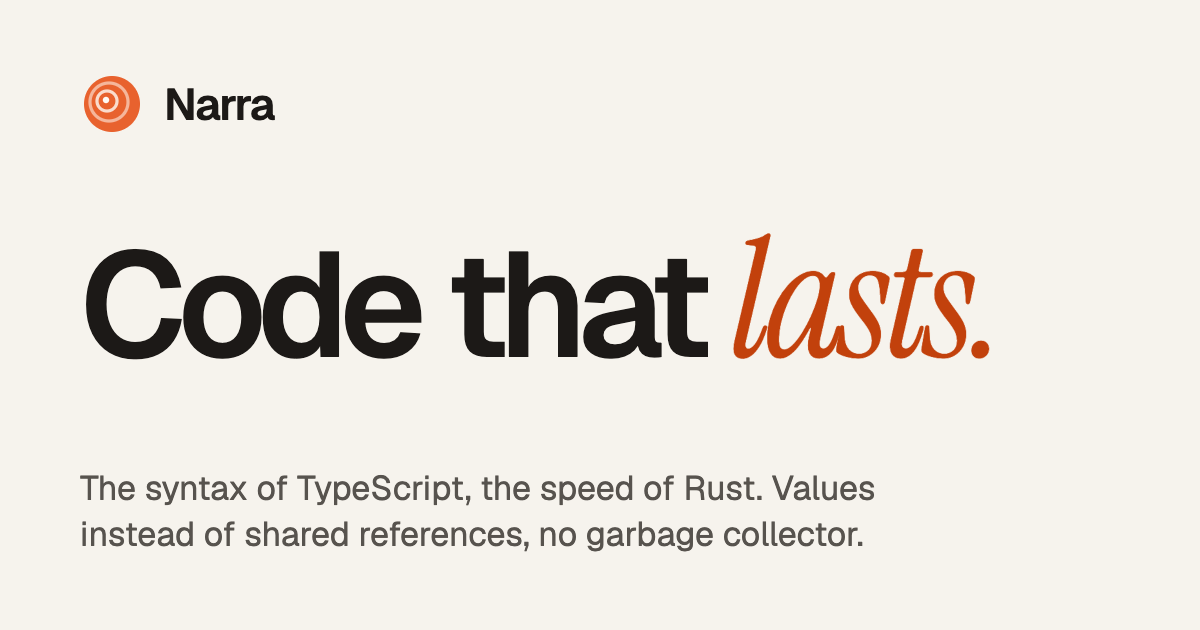
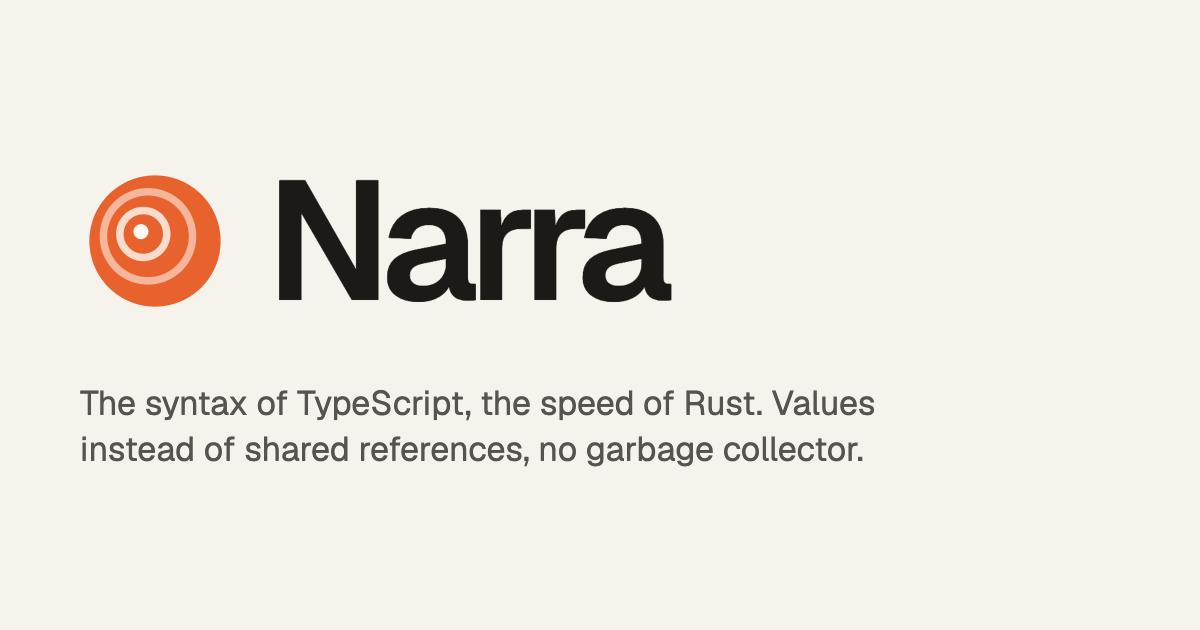
website: drop the "Code that lasts." heading
The home page heading and the link preview image led with a phrase that
said nothing about the language. The heading is now the name, Narra, and
the paragraph under it carries the pitch. The preview image shows the
logo, the name and the same line. The heading's letter-spacing is
loosened so the "rr" no longer touch.

diff --git a/website/scripts/og-image.html b/website/scripts/og-image.html
@@ -13,12 +13,6 @@
         src: url('../node_modules/@fontsource-variable/geist/files/geist-latin-wght-normal.woff2') format('woff2');
         font-weight: 100 900;
       }
-      @font-face {
-        font-family: 'Instrument Serif';
-        font-style: italic;
-        src: url('../node_modules/@fontsource/instrument-serif/files/instrument-serif-latin-400-italic.woff2')
-          format('woff2');
-      }
       html,
       body {
         margin: 0;
@@ -30,7 +24,8 @@
         box-sizing: border-box;
         display: flex;
         flex-direction: column;
-        justify-content: space-between;
+        justify-content: center;
+        gap: 56px;
         padding: 72px 80px;
         background: #f6f3ed;
         color: #1c1917;
@@ -39,28 +34,18 @@
       .brand {
         display: flex;
         align-items: center;
-        gap: 20px;
-        font-size: 44px;
-        font-weight: 600;
-        letter-spacing: -0.03em;
+        gap: 36px;
       }
       .brand svg {
-        width: 64px;
-        height: 64px;
+        width: 150px;
+        height: 150px;
       }
       h1 {
         margin: 0;
-        font-size: 148px;
+        font-size: 168px;
         font-weight: 600;
-        line-height: 0.92;
+        line-height: 1;
         letter-spacing: -0.055em;
-      }
-      h1 em {
-        font-family: 'Instrument Serif', serif;
-        font-weight: 400;
-        font-size: 1.12em;
-        letter-spacing: -0.03em;
-        color: #c2410c;
       }
       p {
         margin: 0;
@@ -79,9 +64,8 @@
         <circle cx="13.5" cy="14.5" r="5" fill="none" stroke="#fffaf5" stroke-width="1.6" opacity="0.8" />
         <circle cx="13" cy="14" r="1.6" fill="#fffaf5" />
       </svg>
-      Narra
+      <h1>Narra</h1>
     </div>
-    <h1>Code that <em>lasts.</em></h1>
     <p>The syntax of TypeScript, the speed of Rust. Values instead of shared references, no garbage collector.</p>
   </body>
 </html>

diff --git a/website/src/styles.css b/website/src/styles.css
@@ -950,16 +950,7 @@ a:hover {
   font-size: clamp(3.5rem, 8.5vw, 7rem);
   font-weight: 600;
   line-height: 0.92;
-  letter-spacing: -0.055em;
-}
-
-.hero-line {
-  display: block;
-}
-
-.hero-title em {
-  font-size: 1.12em;
-  letter-spacing: -0.03em;
+  letter-spacing: -0.035em;
 }
 
 .home .lead {
